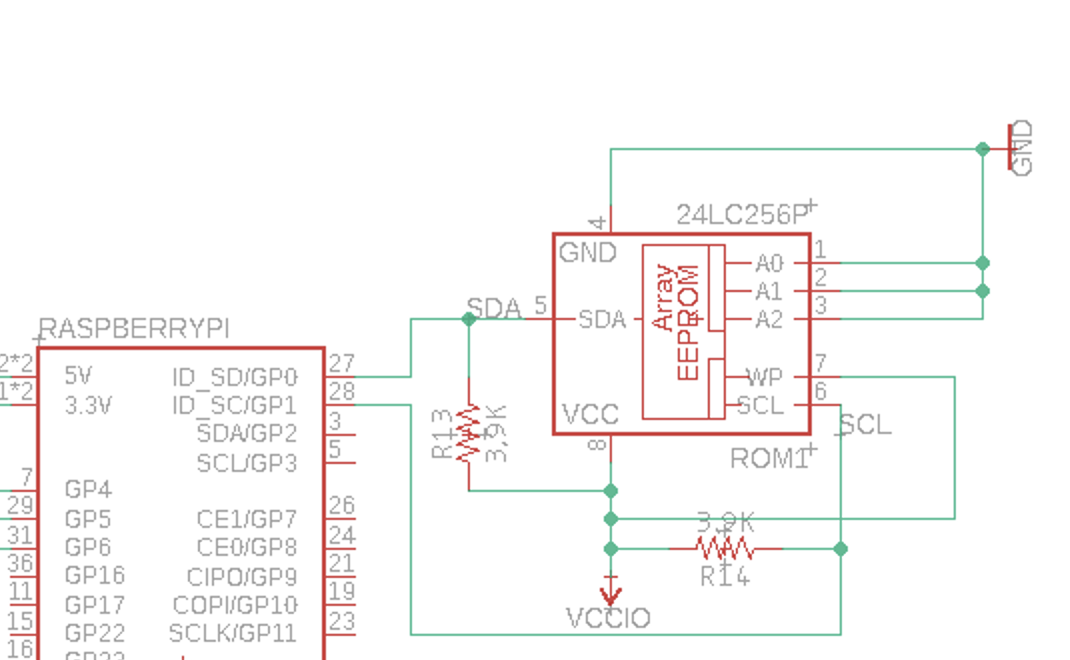
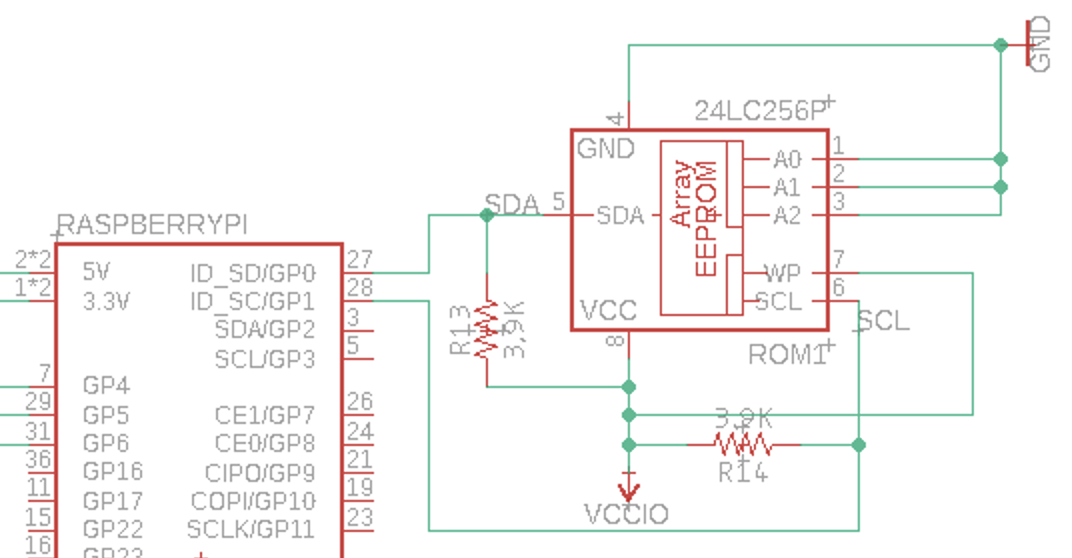
Tidy up EEPROM schematic

Changed region(s): [[0.0, 0.0305, 0.9869, 1.0]]

diff --git a/eeprom/Readme.md b/eeprom/Readme.md
@@ -17,7 +17,7 @@ The EEPROM chip has a few pins:
 * A0, A1, A2: These are the pins to set the I2C address of the EEPROM. They make up a 3 bit address, giving 8 possible addresses. Tying all 3 pins to GND makes the address 0x50, which is what the Pi Hat specification requires
 * WP: This is the Write Protect pin. It should be tied to 3.3V if you want to prevent writing to the EEPROM. For the purpose of testing/programming the EEPROM, tie this to GND or leave it floating
 
-Here is the Eagle schematic for this part of the Hat:
+Here is the Eagle schematic for this part of the Hat. VCCIO is the 3.3V line from the Pi.
 
 ![EEPROM Schematic](https://github.com/phil-lavin/raspi-bakelite/blob/master/eeprom/schematic.png?raw=true) 
 
